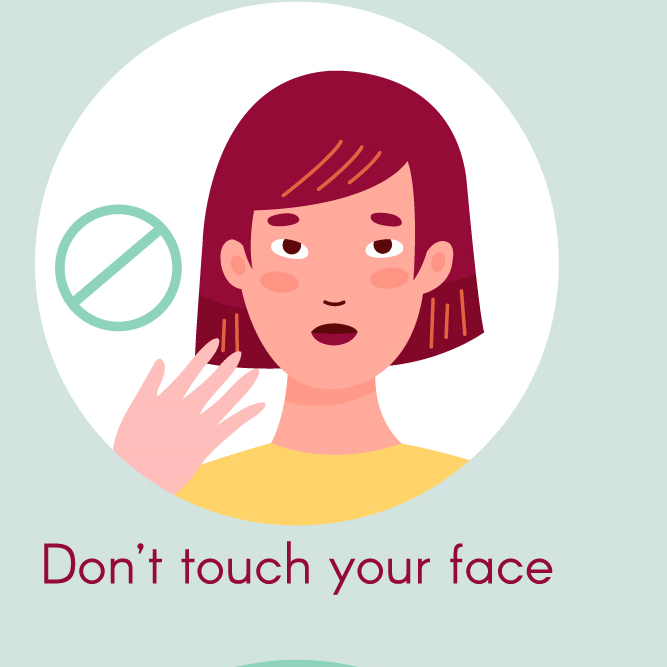
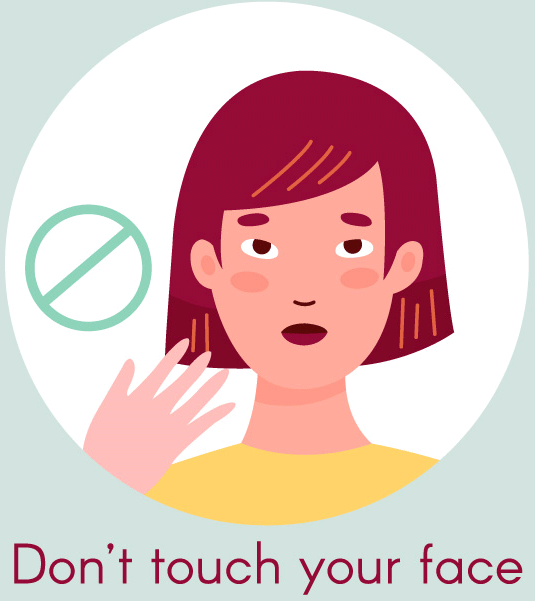
responsiveness of instruction done

diff --git a/style6.css b/style6.css
@@ -123,19 +123,18 @@ body{
 
   .content .imagecontainer{
     grid-column:1/2;
-    width: 20%;
+    width: 21%;
     height: 310px;
     position: absolute;
     left: 25%;
     top: 50%;
     transform: translate(-50%,-50%);
     margin-top: 50px;
-    background-image: url(images/jpginst/images/1_02.jpg);
-    background-size:contain;
+    background-size:100% 100%;
     background-repeat: no-repeat;
     box-shadow: 1px 2px 10px rgb(107, 48, 173);
     border-radius: 10%;
-    animation:slider 25s infinite ease-out ;
+    animation:slider 60s infinite linear ;
     animation-delay: 10s;
     
   } 
@@ -145,12 +144,34 @@ body{
       background-image: url(images/jpginst/images/1_02.jpg);
       
     }
-    35%{
+    12%{
       background-image: url(images/jpginst/images/1_03.png);
     }
-    75%{
+    24%{
       background-image: url(images/jpginst/images/1_04.png);
     }
+    36%{
+      background-image: url(images/jpginst/images/1_05.png);
+    }
+    48%{
+      background-image: url(images/jpginst/images/1_06.png);
+    }
+    60%{
+      background-image: url(images/jpginst/images/1_07.png);
+    }
+    72%{
+      background-image: url(images/jpginst/images/1_08.png);
+    }
+    84%{
+      background-image: url(images/jpginst/images/1_09.png);
+    }
+    98%{
+      background-image: url(images/jpginst/images/1_10.png);
+    }
+    100%{
+      background-image: url(images/jpginst/images/1_02.png);
+    }
+    
   }
    
     
@@ -187,6 +208,38 @@ body{
   .navbar{
     background:linear-gradient(to bottom,white,rgb(200, 200, 238));
     border-radius: 3px;
+  }
+
+  .content .listinstruction{
+    display: none;
+  }
+
+  .content .imagecontainer{
+    width: 60%;
+    height: 310px;
+    overflow-x: hidden;
+    overflow-y: hidden;
+    position: absolute;
+    left: 50%;
+    top: 50%;
+    transform: translate(-50%,-50%);
+    margin-top: 110px;
+    background-size:100% 100%;
+    background-repeat: no-repeat;
+    box-shadow: 1px 2px 10px rgb(107, 48, 173);
+    border-radius: 10%;
+    animation:slider 60s infinite linear ;
+    animation-delay: 10s;
+    
+  } 
+
+  main{
+    overflow: hidden;
+  }
+  main h3{
+    text-align:center;
+    font-size: small;
+    margin-top: 120px;
   }
 
  }

diff --git a/instruction.html b/instruction.html
@@ -45,15 +45,15 @@
             
             <div class="listinstruction">
               <ul>
-                <li>Use Mask</li>
-                <li>Maintain a safe distance</li>
-                <li>Do not touch your face</li>
-                <li>Clean the surfaces</li>
-                <li>Cover your mouth</li>
-                <li>Wash your hand regularly</li>
-                <li>Eat Healthy</li>
-                <li>Stay at home</li>
-                <li>Do some exercise</li>
+                <li class="one">Use Mask</li>
+                <li class="two">Maintain a safe distance</li>
+                <li class="three">Do not touch your face</li>
+                <li class="four">Clean the surfaces</li>
+                <li class="five">Cover your mouth</li>
+                <li class="six">Wash your hand regularly</li>
+                <li class="seven">Eat Healthy</li>
+                <li class="eight">Stay at home</li>
+                <li class="nine">Do some exercise</li>
             </ul>
             </div>
         </div>  
